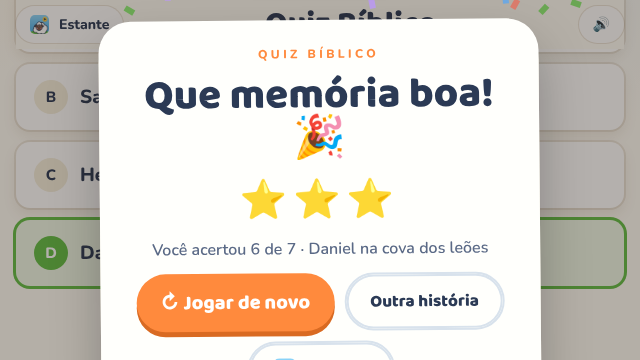
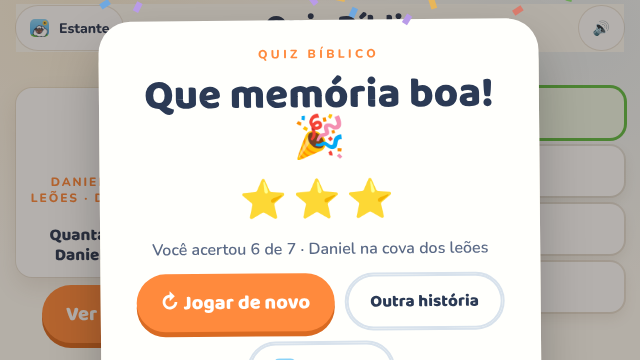
Pente fino: jogos clássicos e estante cabem em todas as telas
- Caça-palavras: grade cabe na tela (deitado), tocar primeira e última letra, lista com acentos
- Memória: todas as cartas visíveis sem rolar; Quiz: pergunta e respostas lado a lado no celular deitado
- Botões com no mínimo 44px; Arca com 'A Pomba/A Ovelha'; pais.html com as histórias novas
- Aviso de deitar o celular nos filmes novos; cache com os ícones que faltavam

Claude-Session: https://claude.ai/code/session_01JxGye28bFzUYJqfGC51MLp

diff --git a/prototipos/pente-fino/teste-jogos-ovelha-paes-zaqueu.js b/prototipos/pente-fino/teste-jogos-ovelha-paes-zaqueu.js
@@ -12,13 +12,20 @@ const HELP=`window.__v2c=(sx,sy)=>{ const dpr=cv.width/innerWidth, offX=(cv.widt
  window.__w2c=(x,y)=>{ const [sx,sy]=toScreen(x,y); return __v2c(sx,sy); };
  window.__dentro=(p,m)=>p.x>=m && p.y>=m && p.x<=innerWidth-m && p.y<=innerHeight-m;`;
 async function esperaBanner(p){ for(let i=0;i<60;i++){ if(await p.evaluate(()=>GS.banner<1.4)) return; await sleep(100); } }
-async function drag(p,pts,hold){ await p.mouse.move(pts[0].x,pts[0].y); await p.mouse.down(); for(const q of pts.slice(1)) await p.mouse.move(q.x,q.y,{steps:12}); if(hold) await sleep(hold); await p.mouse.up(); }
+// entrada real: toque via CDP (Input.dispatchTouchEvent) nos aparelhos com toque — assim aparece o pointercancel se o
+// touch-action do canvas deixar o navegador "roubar" o arrasto —, mouse no pc.
+let CDP=null;
+async function tStart(p,x,y){ if(CDP) await CDP.send('Input.dispatchTouchEvent',{type:'touchStart',touchPoints:[{x,y}]}); else { await p.mouse.move(x,y); await p.mouse.down(); } }
+async function tMove(p,x,y){ if(CDP) await CDP.send('Input.dispatchTouchEvent',{type:'touchMove',touchPoints:[{x,y}]}); else await p.mouse.move(x,y); }
+async function tEnd(p){ if(CDP) await CDP.send('Input.dispatchTouchEvent',{type:'touchEnd',touchPoints:[]}); else await p.mouse.up(); }
+async function tap(p,x,y){ await tStart(p,x,y); await sleep(40); await tEnd(p); }
+async function drag(p,pts,hold){ await tStart(p,pts[0].x,pts[0].y); let a=pts[0]; for(const q of pts.slice(1)){ for(let i=1;i<=12;i++){ await tMove(p,a.x+(q.x-a.x)*i/12,a.y+(q.y-a.y)*i/12); await sleep(12); } a=q; } if(hold){ const t=Date.now(); while(Date.now()-t<hold){ await tMove(p,a.x+(Math.random()-.5),a.y); await sleep(50); } } await tEnd(p); }
 const prob=[];
 const PLAY={
  ovelha:{
   1: async(p,log)=>{ const t0=Date.now(); while(Date.now()-t0<60000){ const r=await p.evaluate(()=>({ph:GS.phase,fin:GS.finished,o:GS.ovs.filter(o=>!o.ok).map(o=>__w2c(o.x,-30))}));
-      if(r.ph!==1||r.fin) return true; const alvo=r.o.find(q=>__dentroNode(q,r)); if(alvo) await p.mouse.click(alvo.x,alvo.y); await sleep(120); } return false; },
-  2: async(p,log)=>{ const r=await p.evaluate(()=>{ GS.esconde=GS.lugares[4][0]; /* pior caso: o esconderijo mais à direita */ const t=__w2c(GS.esconde,-30); const todos=GS.lugares.map(([x])=>__w2c(x,-30)); return {t,ok:__dentro(t,10),todos:todos.map(q=>__dentro(q,10)),vw:innerWidth,vh:innerHeight}; });
+      if(r.ph!==1||r.fin) return true; const alvo=r.o.find(q=>__dentroNode(q,r)); if(alvo) await tap(p,alvo.x,alvo.y); await sleep(120); } return false; },
+  2: async(p,log)=>{ const r=await p.evaluate(()=>{ GS.escIdx=4; esconderijos(); /* pior caso: o esconderijo mais à direita */ const t=__w2c(GS.esconde,-30); const todos=GS.lugares.map(([x])=>__w2c(x,-30)); return {t,ok:__dentro(t,10),todos:todos.map(q=>__dentro(q,10)),vw:innerWidth,vh:innerHeight}; });
       if(!r.ok) log('alvo escondido FORA da tela '+JSON.stringify(r.t)); if(r.todos.includes(false)){ log('PROBLEMA esconderijos visíveis: '+r.todos.join(',')); return false; }
       // forçar teste do pior caso: cada esconderijo
       await drag(p,[{x:r.vw/2,y:r.vh/2},r.t],1300); await sleep(300); return await p.evaluate(()=>GS.finished||GS.phase!==2); },
@@ -27,29 +34,29 @@ const PLAY={
  paes:{
   1: async(p,log)=>{ const todos=await p.evaluate(()=>GS.itens.map(i=>({k:i.k,...__w2c(i.x,i.y-12)}))); const foraT=todos.filter(q=>!__dentroNode(q,{vw:VW,vh:VH},20)); if(foraT.length) log('PROBLEMA itens fora da tela: '+foraT.length);
       const r=todos.filter(i=>i.k==='pao'||i.k==='peixe'); const fora=r.filter(q=>!__dentroNode(q,{vw:VW,vh:VH},20)); if(fora.length) log('pães/peixes FORA da tela: '+fora.length);
-      for(const q of r){ if(await p.evaluate(()=>GS.finished)) break; await p.mouse.click(q.x,q.y); await sleep(200); } await sleep(200); return await p.evaluate(()=>GS.finished); },
+      for(const q of r){ if(await p.evaluate(()=>GS.finished)) break; await tap(p,q.x,q.y); await sleep(200); } await sleep(200); return await p.evaluate(()=>GS.finished); },
   2: async(p,log)=>{ const t0=Date.now(); while(Date.now()-t0<60000){ const r=await p.evaluate(()=>{ if(GS.phase!==2||GS.finished) return null; const z=ZOOM*cam.z*PZ(), gr=GS.grupos[GS.fome]; if(!GS.pao||GS.pao.voa) return {wait:1}; return {a:__v2c(GS.pao.x,GS.pao.y), b:__w2c(gr.fx*W/z,-60)}; });
       if(!r) return true; if(r.wait){ await sleep(150); continue; } if(!__dentroNode(r.a,{vw:VW,vh:VH},10)) log('pão fora da tela'); await drag(p,[r.a,r.b]); await sleep(700); } return false; },
   3: async(p,log)=>{ const t0=Date.now(); while(Date.now()-t0<90000){ const r=await p.evaluate(()=>{ if(GS.phase!==3||GS.finished) return null; return GS.migalhas.filter(m=>!m.ok).map(m=>__v2c(m.x,m.y)).sort((a,b)=>a.x-b.x); });
       if(!r) return true; if(r.length) await drag(p,r.slice(0,8)); await sleep(300); } return false; } },
  zaqueu:{
-  1: async(p,log)=>{ const t0=Date.now(); while(Date.now()-t0<40000){ const r=await p.evaluate(()=>{ if(GS.phase!==1||GS.finished) return null; const B=botoes(); return __v2c(B[GS.lado][0],B[GS.lado][1]); }); if(!r) return true; await p.mouse.click(r.x,r.y); await sleep(160); } return false; },
+  1: async(p,log)=>{ const t0=Date.now(); while(Date.now()-t0<40000){ const r=await p.evaluate(()=>{ if(GS.phase!==1||GS.finished) return null; const B=botoes(); return __v2c(B[GS.lado][0],B[GS.lado][1]); }); if(!r) return true; await tap(p,r.x,r.y); await sleep(160); } return false; },
   2: async(p,log)=>{ const t0=Date.now(); while(Date.now()-t0<60000){ const r=await p.evaluate(()=>{ if(GS.phase!==2||GS.finished) return null; if(GS.mostra>=0||GS.espera>0) return {wait:1}; return GS.seq.slice(GS.entrada).map(i=>__v2c(COISAS[i][2]*W,COISAS[i][3]*H)); });
-      if(!r) return true; if(r.wait){ await sleep(150); continue; } for(const q of r){ await p.mouse.click(q.x,q.y); await sleep(250); } await sleep(300); } return false; },
+      if(!r) return true; if(r.wait){ await sleep(150); continue; } for(const q of r){ await tap(p,q.x,q.y); await sleep(250); } await sleep(300); } return false; },
   3: async(p,log)=>{ const t0=Date.now(); while(Date.now()-t0<60000){ const r=await p.evaluate(()=>{ if(GS.phase!==3||GS.finished) return null; if(!GS.moeda) return {wait:1}; const z=ZOOM*cam.z*PZ(); const al=GS.pessoas.find(q=>q.n<4); return {a:__v2c(GS.moeda.x,GS.moeda.y), b:__w2c(al.fx*W/z,-70)}; });
       if(!r) return true; if(r.wait){ await sleep(150); continue; } await drag(p,[r.a,r.b]); await sleep(300); } return false; } } };
 let VW=0,VH=0; global.__dentroNode=(q,r,m=10)=>q.x>=m&&q.y>=m&&q.x<=(r.vw||VW)-m&&q.y<=(r.vh||VH)-m;
 (async()=>{ const b=await chromium.launch(); const res=[];
  for(const jogo of JOGOS) for(const [nm,opt] of VPS){
   const c=await b.newContext({...opt,deviceScaleFactor:1}); await c.addInitScript(()=>{ try{ sessionStorage.setItem('bl_gire','1'); }catch(e){} });
-  const p=await c.newPage(); const erros=[]; p.on('pageerror',e=>erros.push(e.message)); p.on('console',m=>{ if(m.type()==='error' && !/fonts|net::|Failed to load/.test(m.text())) erros.push(m.text()); });
+  const p=await c.newPage(); CDP=opt.hasTouch? await c.newCDPSession(p) : null; let cancel=0; const erros=[]; p.on('pageerror',e=>erros.push(e.message)); p.on('console',m=>{ if(m.type()==='error' && !/fonts|net::|Failed to load/.test(m.text())) erros.push(m.text()); });
   VW=opt.viewport.width; VH=opt.viewport.height;
   await p.goto('file://'+process.cwd()+'/filmes/'+jogo+'.html#jogo'); await sleep(700);
-  await p.evaluate(HELP); await p.evaluate(()=>{ document.getElementById('blGire')?.remove(); }); await p.click('#coverGame');
+  await p.evaluate(HELP); if(process.env.CSS_VELHO) await p.addStyleTag({content:'body.game #cv{touch-action:manipulation!important}'}); /* simula o CSS antigo */ await p.evaluate(()=>{ window.__cancel=0; addEventListener('pointercancel',()=>__cancel++); }); await p.evaluate(()=>{ document.getElementById('blGire')?.remove(); }); await p.click('#coverGame');
   const log=m=>console.log('  ['+jogo+' '+nm+'] '+m); const fases=[];
   for(let f=1;f<=3;f++){ for(let i=0;i<80 && await p.evaluate(f=>GS.phase!==f,f);i++) await sleep(100); await esperaBanner(p); await sleep(400);
     await p.screenshot({path:`${S}/${jogo}-f${f}-${nm}.png`}); const ok=await PLAY[jogo][f](p,log); fases.push(ok?'ok':'FALHOU'); if(!ok){ log('fase '+f+' não terminou'); break; } }
   for(let i=0;i<70 && await p.evaluate(()=>document.getElementById('gwin').hidden);i++) await sleep(100);
   const win=await p.evaluate(()=>!document.getElementById('gwin').hidden); if(win) await p.screenshot({path:`${S}/${jogo}-fim-${nm}.png`});
-  const linha=`${jogo} ${nm}: fases=${fases.join(',')} gwin=${win} erros=${erros.length?JSON.stringify(erros.slice(0,3)):0}`; console.log(linha); res.push(linha); await c.close(); }
+  const nc=await p.evaluate(()=>__cancel); const linha=`${jogo} ${nm}${CDP?' (toque)':' (mouse)'}: fases=${fases.join(',')} gwin=${win} pointercancel=${nc} erros=${erros.length?JSON.stringify(erros.slice(0,3)):0}`; console.log(linha); res.push(linha); await c.close(); }
  await b.close(); console.log('\nRESUMO\n'+res.join('\n')); })();
